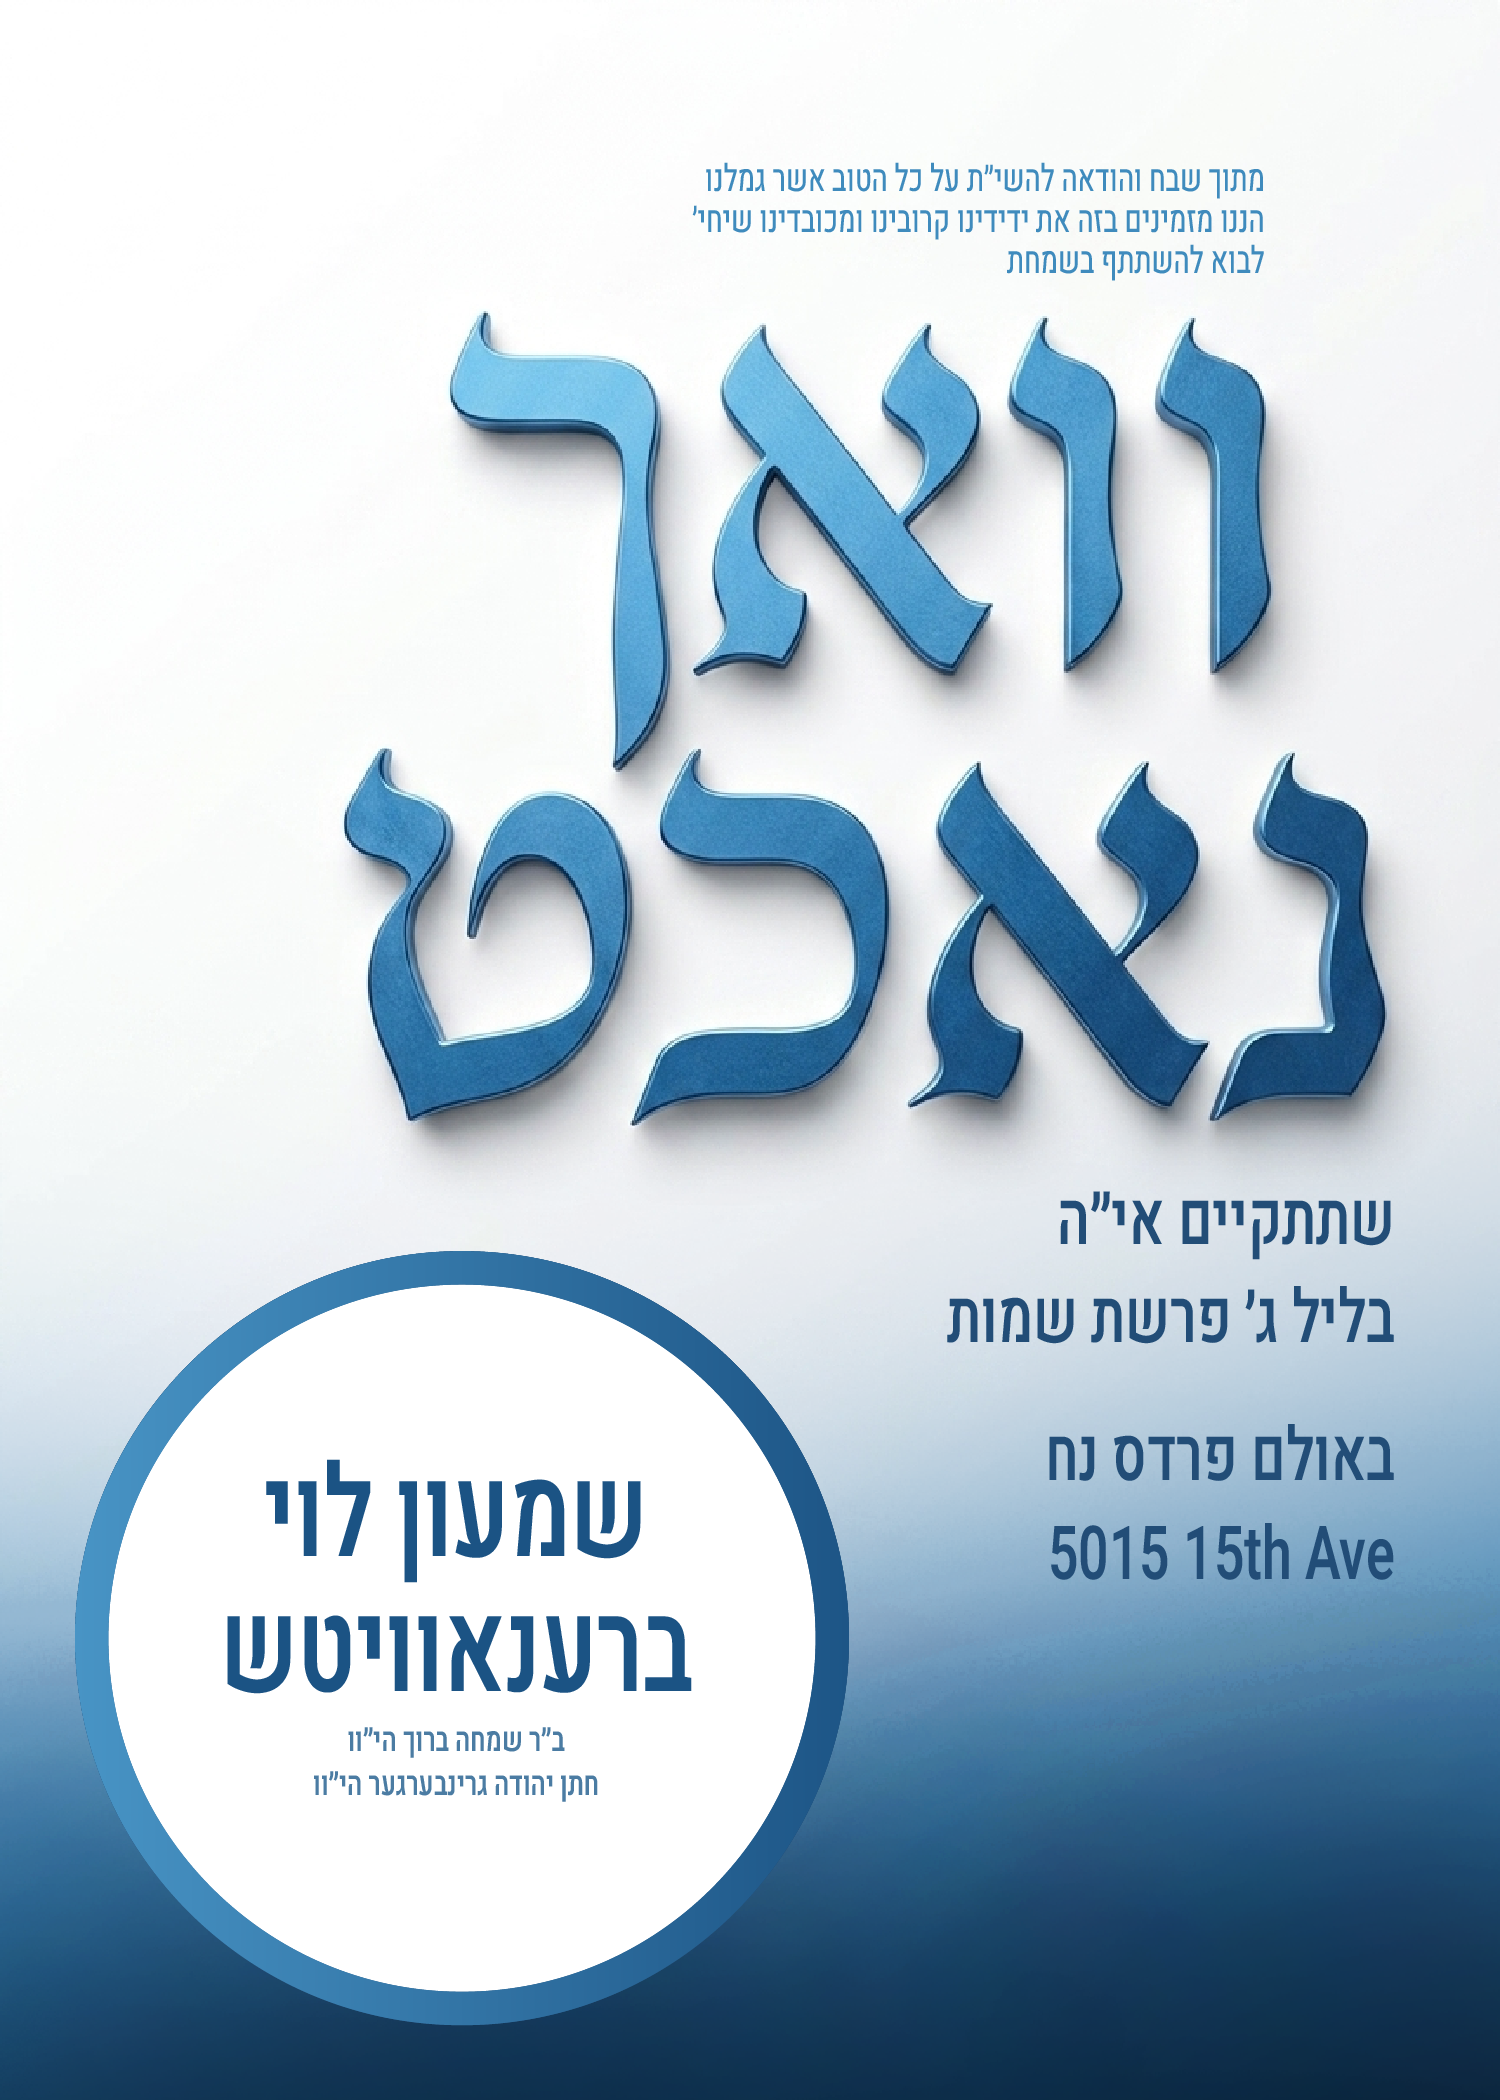
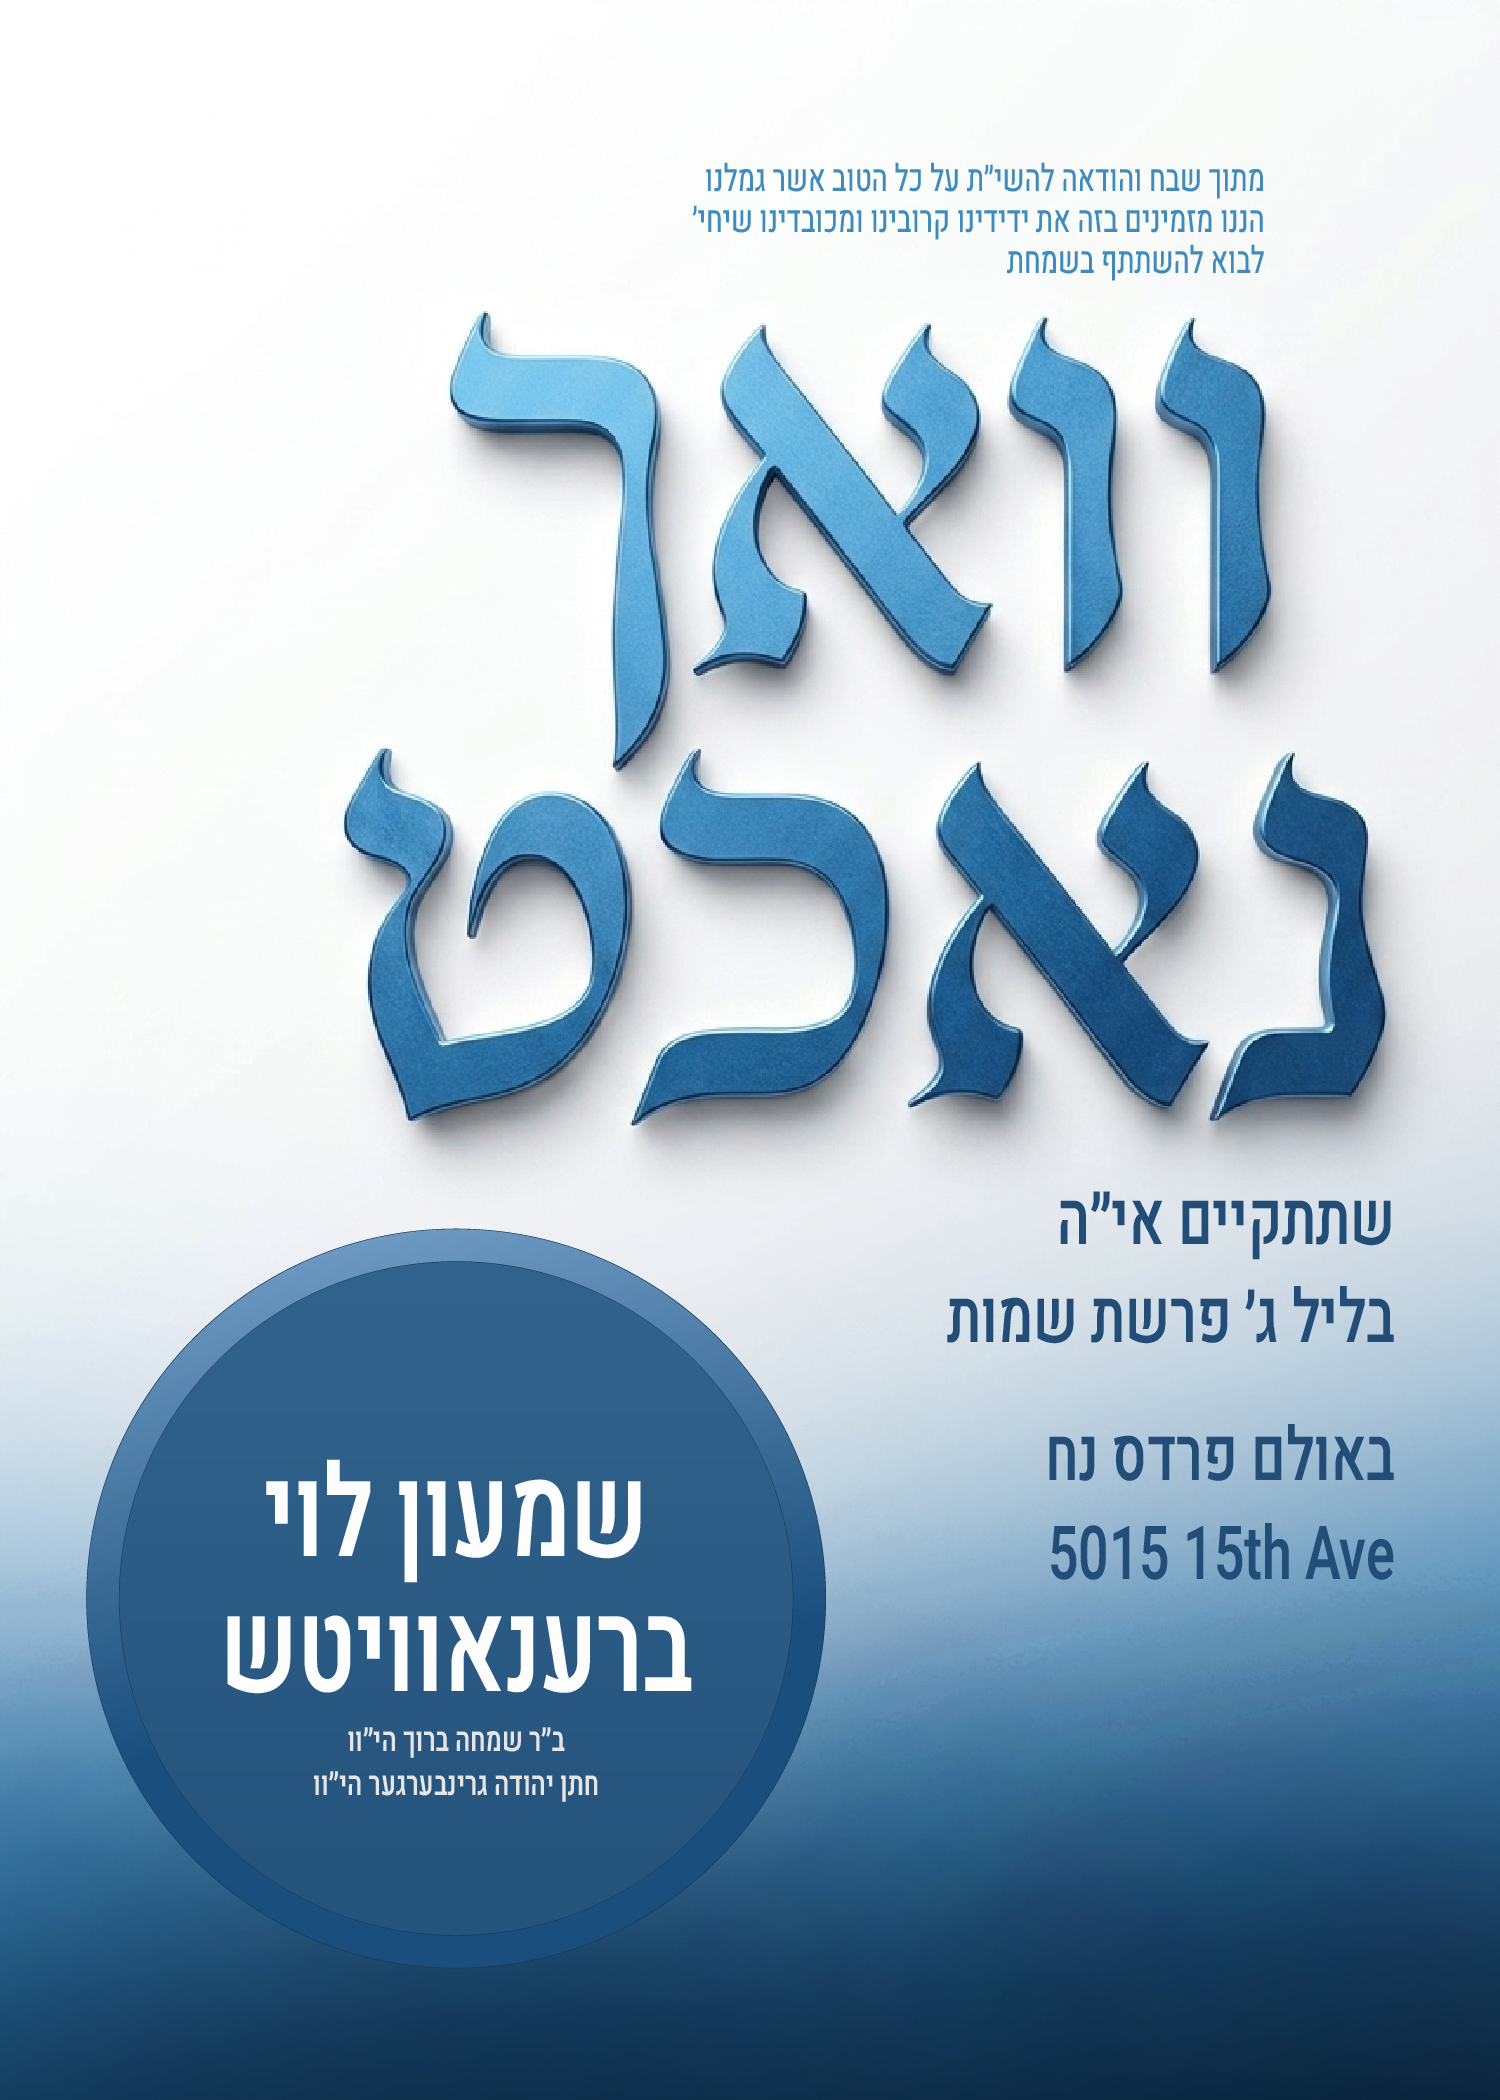
Add VN-04, VN-05; update VN-01; remove VN-02; add 5 Google fonts; fix grid alignment
- Add VN-04, VN-05 templates to Vach Nacht
- Update VN-01 (new artwork + thumb)
- Remove VN-02
- Add Alex Brush, Great Vibes, Luxurious Script, Nunito, Satisfy fonts
- Center template grid as a block; fix trailing-row left-alignment
- Active filter pill now shows light grey background
- All flat-variant pill buttons styled consistently

Changed region(s): [[0.0307, 0.5881, 0.5827, 0.9905]]

diff --git a/app/layout.tsx b/app/layout.tsx
@@ -1,5 +1,5 @@
 import type { Metadata } from "next";
-import { Comic_Neue, Dancing_Script, Frank_Ruhl_Libre, Heebo, Lexend, Lora, Montserrat, Oswald, Playpen_Sans_Hebrew, Secular_One } from "next/font/google";
+import { Alex_Brush, Comic_Neue, Dancing_Script, Frank_Ruhl_Libre, Great_Vibes, Heebo, Lexend, Lora, Luxurious_Script, Montserrat, Nunito, Oswald, Playpen_Sans_Hebrew, Satisfy, Secular_One } from "next/font/google";
 import "./globals.css";
 import { AuthProvider } from "./components/AuthProvider";
 
@@ -69,6 +69,41 @@ const comicNeue = Comic_Neue({
   display: "fallback",
 });
 
+const alexBrush = Alex_Brush({
+  variable: "--font-alex-brush",
+  subsets: ["latin"],
+  weight: "400",
+  display: "fallback",
+});
+
+const greatVibes = Great_Vibes({
+  variable: "--font-great-vibes",
+  subsets: ["latin"],
+  weight: "400",
+  display: "fallback",
+});
+
+const luxuriousScript = Luxurious_Script({
+  variable: "--font-luxurious-script",
+  subsets: ["latin"],
+  weight: "400",
+  display: "fallback",
+});
+
+const nunito = Nunito({
+  variable: "--font-nunito",
+  subsets: ["latin"],
+  weight: ["200", "300", "400", "500", "600", "700", "800", "900"],
+  display: "fallback",
+});
+
+const satisfy = Satisfy({
+  variable: "--font-satisfy",
+  subsets: ["latin"],
+  weight: "400",
+  display: "fallback",
+});
+
 
 export const metadata: Metadata = {
   title: "Simcha Invitations",
@@ -125,7 +160,7 @@ export default function RootLayout({
   children: React.ReactNode;
 }>) {
   return (
-    <html lang="en" className={`${dancingScript.variable} ${lora.variable} ${montserrat.variable} ${oswald.variable} ${secularOne.variable} ${heebo.variable} ${frankRuhlLibre.variable} ${playpenSansHebrew.variable} ${lexend.variable} ${comicNeue.variable}`}>
+    <html lang="en" className={`${dancingScript.variable} ${lora.variable} ${montserrat.variable} ${oswald.variable} ${secularOne.variable} ${heebo.variable} ${frankRuhlLibre.variable} ${playpenSansHebrew.variable} ${lexend.variable} ${comicNeue.variable} ${alexBrush.variable} ${greatVibes.variable} ${luxuriousScript.variable} ${nunito.variable} ${satisfy.variable}`}>
       <head>
         {/* eslint-disable-next-line @next/next/no-page-custom-font */}
         <link rel="stylesheet" href="https://use.typekit.net/hat2kft.css" />

diff --git a/app/templates/page.tsx b/app/templates/page.tsx
@@ -1068,8 +1068,9 @@ const [windowWidth, setWindowWidth] = useState(1200);
                   );
                 }
 
-                // Pack cards into rows the same way flex-wrap would, so we can
-                // center full rows but left-align a trailing partial row.
+                // Pack cards into rows the same way flex-wrap would, so rows
+                // share a common left edge (a trailing partial row lines up
+                // under the row above it) while the whole block is centered.
                 const rows: Template[][] = [];
                 if (gridWidth > 0) {
                   let current: Template[] = [];
@@ -1092,20 +1093,23 @@ const [windowWidth, setWindowWidth] = useState(1200);
                   rows.push(filtered);
                 }
 
+                const rowWidth = (rowTemplates: Template[]) =>
+                  rowTemplates.reduce((sum, t, i) => sum + cardWidthOf(t) + (i === 0 ? 0 : GAP), 0);
+                const maxRowWidth = Math.max(...rows.map(rowWidth));
+
                 return (
                   <div ref={setGridEl} style={{ display: 'flex', flexDirection: 'column', gap: GAP }}>
-                    {rows.map((rowTemplates, rowIdx) => {
-                      const isTrailingPartialRow = rows.length > 1 && rowIdx === rows.length - 1;
-                      return (
+                    <div style={{ display: 'flex', flexDirection: 'column', gap: GAP, width: maxRowWidth, margin: '0 auto' }}>
+                      {rows.map((rowTemplates, rowIdx) => (
                         <div key={rowIdx} data-row="true" style={{
                           display: 'flex',
                           gap: GAP,
-                          justifyContent: isTrailingPartialRow ? 'flex-start' : 'center',
+                          justifyContent: 'flex-start',
                         }}>
                           {rowTemplates.map(template => renderCard(template, cardWidthOf(template)))}
                         </div>
-                      );
-                    })}
+                      ))}
+                    </div>
                   </div>
                 );
               })();

diff --git a/app/components/SvgCardPreview.tsx b/app/components/SvgCardPreview.tsx
@@ -97,6 +97,11 @@ function injectFieldValues(
     [font-family="Playpen Sans Hebrew"] { font-family: var(--font-playpen-sans-hebrew, "Playpen Sans Hebrew"), cursive; }
     [font-family="Lexend"]             { font-family: var(--font-lexend, Lexend), sans-serif; }
     [font-family="Comic Neue"]         { font-family: var(--font-comic-neue, "Comic Neue"), cursive; }
+    [font-family="Alex Brush"]         { font-family: var(--font-alex-brush, "Alex Brush"), cursive; }
+    [font-family="Great Vibes"]        { font-family: var(--font-great-vibes, "Great Vibes"), cursive; }
+    [font-family="Luxurious Script"]   { font-family: var(--font-luxurious-script, "Luxurious Script"), cursive; }
+    [font-family="Nunito"]             { font-family: var(--font-nunito, Nunito), sans-serif; }
+    [font-family="Satisfy"]            { font-family: var(--font-satisfy, Satisfy), cursive; }
   `;
   root.insertBefore(fontMapStyle, root.firstChild);
 

diff --git a/app/components/GlassPill.tsx b/app/components/GlassPill.tsx
@@ -146,9 +146,11 @@ export default function GlassPill({
         border: bg ? `1.5px solid ${bg}` : (active ? '1.5px solid rgba(0,0,0,0.22)' : '1.5px solid rgba(0,0,0,0.18)'),
         background: bg
           ? bg
+          : active
+          ? '#d4d4d4'
           : tinted
-          ? (active ? 'rgba(255,255,255,0.35)' : isHovered ? 'rgba(255,255,255,0.28)' : 'rgba(255,255,255,0.20)')
-          : (active ? 'rgba(0,0,0,0.07)' : isHovered ? 'rgba(0,0,0,0.04)' : 'transparent'),
+          ? (isHovered ? 'rgba(255,255,255,0.28)' : 'rgba(255,255,255,0.20)')
+          : (isHovered ? 'rgba(0,0,0,0.04)' : 'transparent'),
         filter: bg && isHovered ? 'brightness(1.08)' : 'none',
         cursor: disabled ? 'not-allowed' : 'pointer',
         userSelect: 'none',
